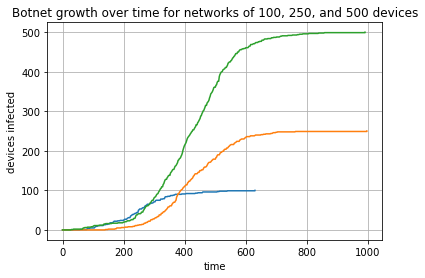
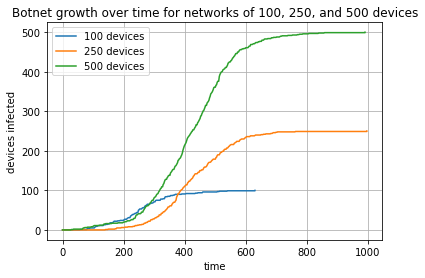
add legend to always-connected graphs

Changed region(s): [[0.1224, 0.0863, 0.3671, 0.2878]]

diff --git a/data-analysis/graph.py b/data-analysis/graph.py
@@ -64,11 +64,14 @@ ax = set_graph(BOTNET_SIZE_NAME,
           'proportion devices infected' if CALCULATE_PROPORTION else 'devices infected')
 for d in data:
     ax.plot(d[0][:, 0], 
-           d[0][:, 1]/NUMBER_DEVICES if CALCULATE_PROPORTION else d[0][:, 1])
+           d[0][:, 1]/NUMBER_DEVICES if CALCULATE_PROPORTION else d[0][:, 1],
+           label=str(int(max(d[0][:, 1])))+" devices")
+plt.legend()
 plt.show()
 
 ax = set_graph(MESSAGE_PASSING_NAME, 'total messages sent')
 for d in data:
-    ax.plot(d[1][:, 0], d[1][:, 1])
+    ax.plot(d[1][:, 0], d[1][:, 1], label=str(int(max(d[0][:, 1])))+" devices")
+plt.legend()
 plt.show()
 
